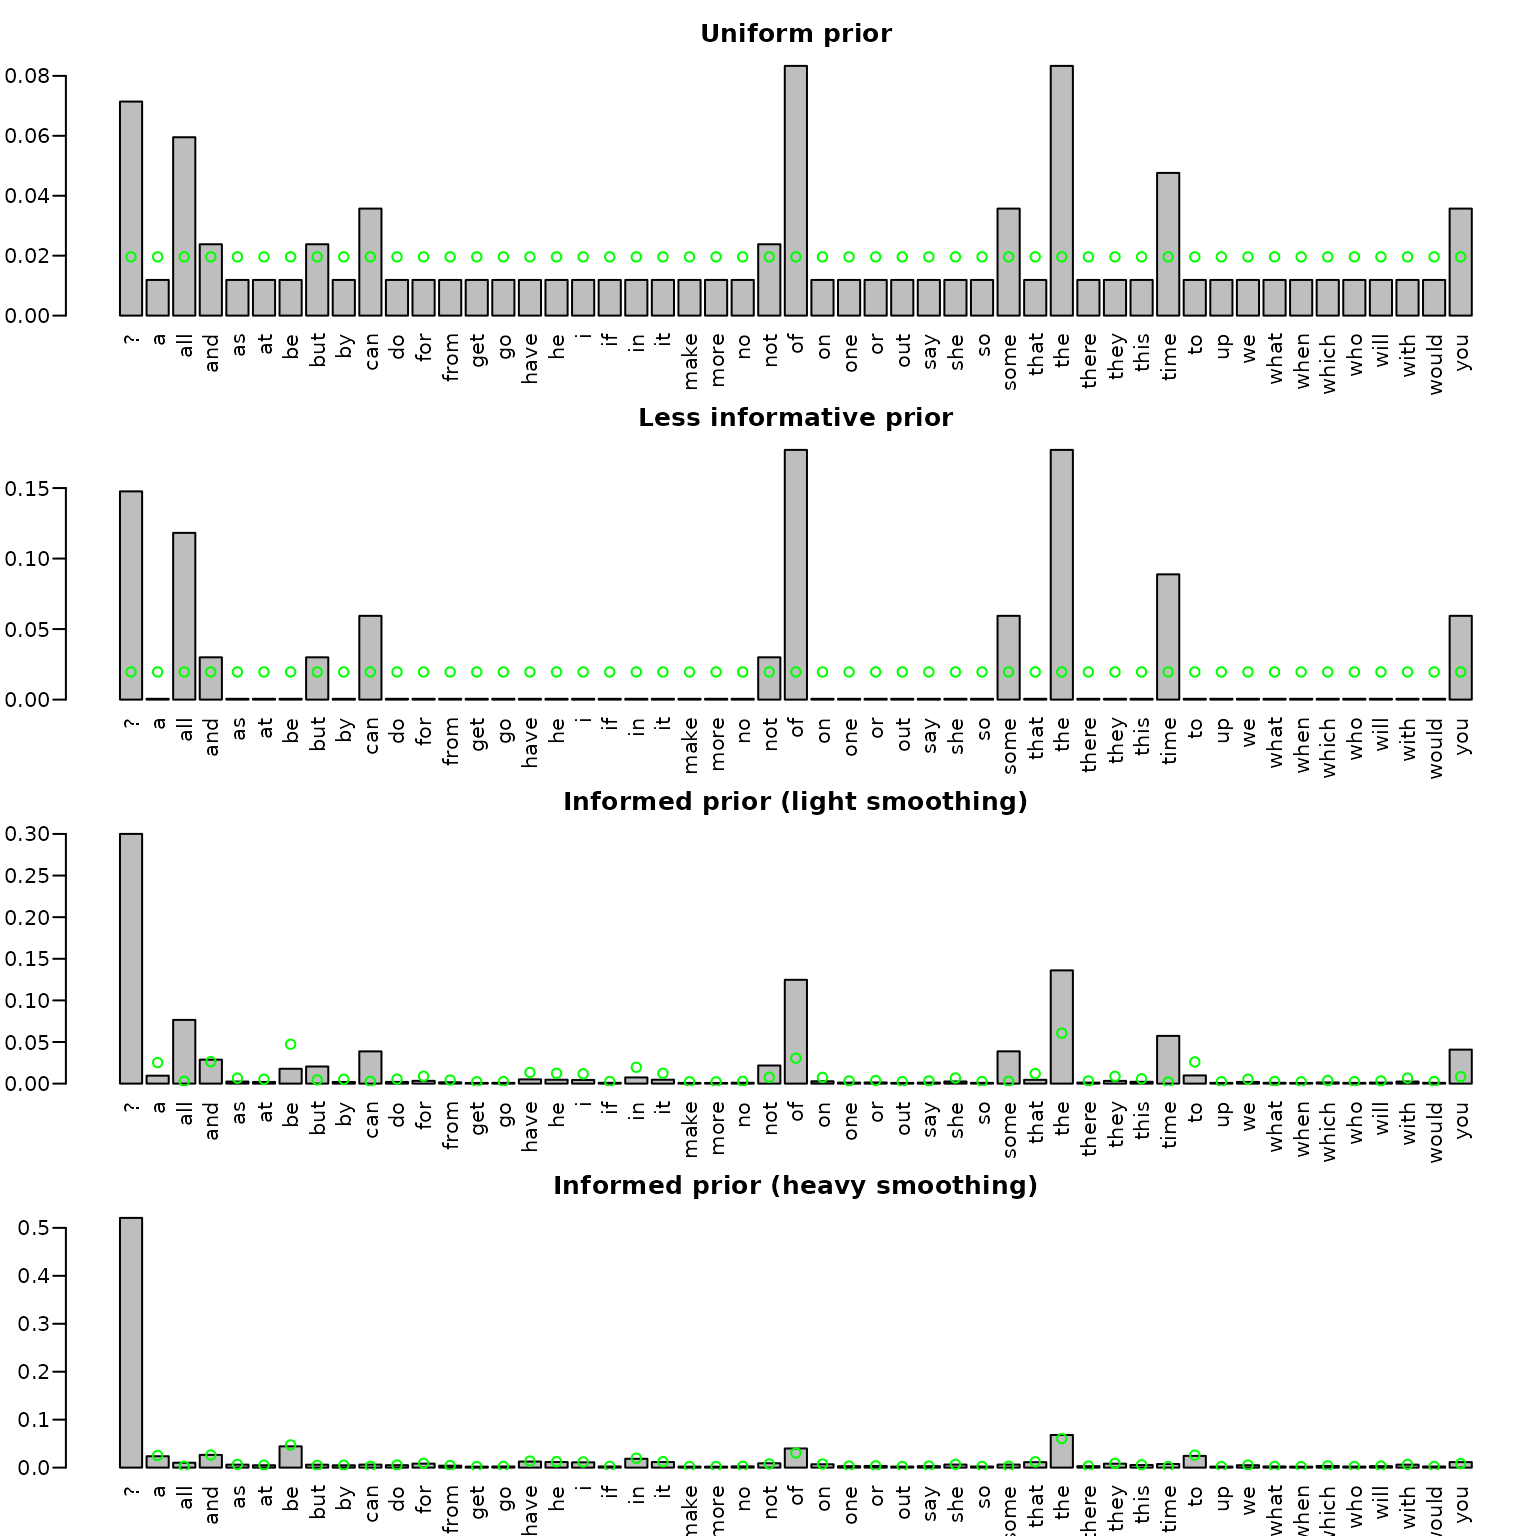
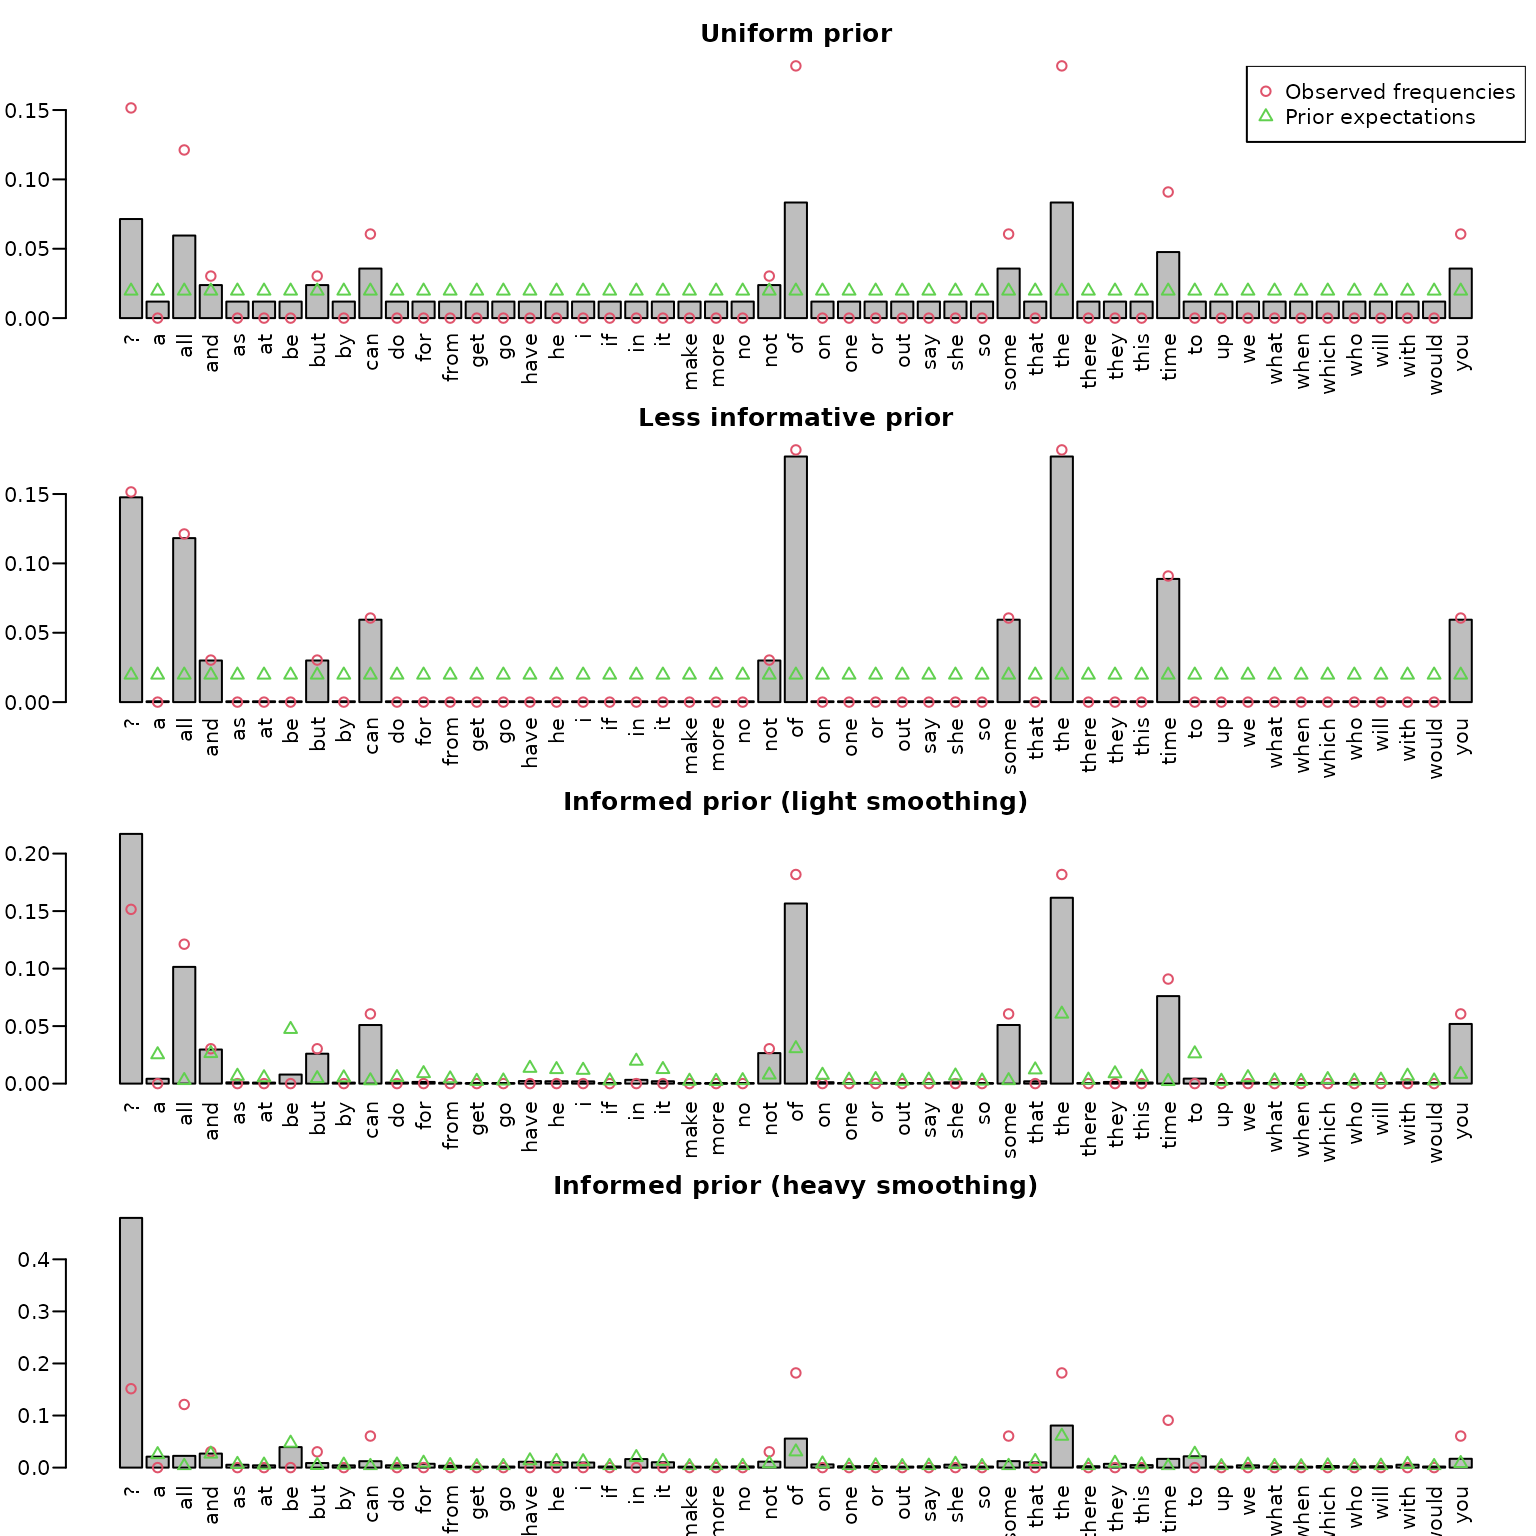
Deploying to gh-pages from @ gregorkastner/BayesianLearningCode@1a45728e91d3b916db8196748d492f4f03759895 🚀

diff --git a/articles/Chapter03.html b/articles/Chapter03.html
@@ -500,7 +500,8 @@ top 50 English words is
 counts. To compute the posterior, we can again add the actual counts and
 the new pseudo-counts.</p>
 <div class="sourceCode" id="cb15"><pre class="downlit sourceCode r">
-<code class="sourceCode R"><span><span class="va">N0</span> <span class="op">&lt;-</span> <span class="va">N</span><span class="op">/</span><span class="fl">5</span></span>
+<code class="sourceCode R"><span><span class="va">N</span> <span class="op">&lt;-</span> <span class="fu"><a href="https://rdrr.io/r/base/length.html" class="external-link">length</a></span><span class="op">(</span><span class="va">dat</span><span class="op">)</span></span>
+<span><span class="va">N0</span> <span class="op">&lt;-</span> <span class="va">N</span><span class="op">/</span><span class="fl">5</span></span>
 <span><span class="va">gamma0</span> <span class="op">&lt;-</span> <span class="va">N0</span> <span class="op">*</span> <span class="va">freq</span> <span class="op">/</span> <span class="fl">10</span><span class="op">^</span><span class="fl">8</span></span>
 <span></span>
 <span><span class="va">post_informed_unnormalized</span> <span class="op">&lt;-</span> <span class="va">counts</span> <span class="op">+</span> <span class="va">gamma0</span></span>
@@ -524,27 +525,35 @@ number of pseudo-counts
 purposes, we also add the prior probabilities of each word via green
 circles.</p>
 <div class="sourceCode" id="cb17"><pre class="downlit sourceCode r">
-<code class="sourceCode R"><span><span class="va">midpts</span> <span class="op">&lt;-</span> <span class="fu"><a href="https://rdrr.io/r/graphics/barplot.html" class="external-link">barplot</a></span><span class="op">(</span><span class="va">post_uniform</span>, las <span class="op">=</span> <span class="fl">2</span><span class="op">)</span></span>
-<span><span class="fu"><a href="https://rdrr.io/r/graphics/points.html" class="external-link">points</a></span><span class="op">(</span><span class="va">midpts</span>, <span class="fu"><a href="https://rdrr.io/r/base/rep.html" class="external-link">rep</a></span><span class="op">(</span><span class="fl">1</span><span class="op">/</span><span class="fl">51</span>, <span class="fu"><a href="https://rdrr.io/r/base/length.html" class="external-link">length</a></span><span class="op">(</span><span class="va">midpts</span><span class="op">)</span><span class="op">)</span>, col <span class="op">=</span> <span class="st">"green"</span><span class="op">)</span></span>
+<code class="sourceCode R"><span><span class="va">midpts</span> <span class="op">&lt;-</span> <span class="fu"><a href="https://rdrr.io/r/graphics/barplot.html" class="external-link">barplot</a></span><span class="op">(</span><span class="va">post_uniform</span>, las <span class="op">=</span> <span class="fl">2</span>,</span>
+<span>                  ylim <span class="op">=</span> <span class="fu"><a href="https://rdrr.io/r/base/c.html" class="external-link">c</a></span><span class="op">(</span><span class="fl">0</span>, <span class="fu"><a href="https://rdrr.io/r/base/Extremes.html" class="external-link">max</a></span><span class="op">(</span><span class="va">counts</span><span class="op">/</span><span class="va">N</span>, <span class="va">post_uniform</span><span class="op">)</span><span class="op">)</span><span class="op">)</span></span>
+<span><span class="fu"><a href="https://rdrr.io/r/graphics/points.html" class="external-link">points</a></span><span class="op">(</span><span class="va">midpts</span>, <span class="va">counts</span><span class="op">/</span><span class="va">N</span>, col <span class="op">=</span> <span class="fl">2</span>, pch <span class="op">=</span> <span class="fl">1</span>, xpd <span class="op">=</span> <span class="cn">TRUE</span><span class="op">)</span></span>
+<span><span class="fu"><a href="https://rdrr.io/r/graphics/points.html" class="external-link">points</a></span><span class="op">(</span><span class="va">midpts</span>, <span class="fu"><a href="https://rdrr.io/r/base/rep.html" class="external-link">rep</a></span><span class="op">(</span><span class="fl">1</span><span class="op">/</span><span class="fl">51</span>, <span class="fu"><a href="https://rdrr.io/r/base/length.html" class="external-link">length</a></span><span class="op">(</span><span class="va">midpts</span><span class="op">)</span><span class="op">)</span>, col <span class="op">=</span> <span class="fl">3</span>, pch <span class="op">=</span> <span class="fl">2</span><span class="op">)</span></span>
 <span><span class="fu"><a href="https://rdrr.io/r/graphics/title.html" class="external-link">title</a></span><span class="op">(</span><span class="st">"Uniform prior"</span><span class="op">)</span></span>
+<span><span class="fu"><a href="https://rdrr.io/r/graphics/legend.html" class="external-link">legend</a></span><span class="op">(</span><span class="st">"topright"</span>, <span class="fu"><a href="https://rdrr.io/r/base/c.html" class="external-link">c</a></span><span class="op">(</span><span class="st">"Observed frequencies"</span>, <span class="st">"Prior expectations"</span><span class="op">)</span>,</span>
+<span>       col <span class="op">=</span> <span class="fl">2</span><span class="op">:</span><span class="fl">3</span>, pch <span class="op">=</span> <span class="fl">1</span><span class="op">:</span><span class="fl">2</span><span class="op">)</span></span>
 <span></span>
-<span><span class="va">midpts</span> <span class="op">&lt;-</span> <span class="fu"><a href="https://rdrr.io/r/graphics/barplot.html" class="external-link">barplot</a></span><span class="op">(</span><span class="va">post_lessinformative</span>, las <span class="op">=</span> <span class="fl">2</span><span class="op">)</span></span>
-<span><span class="fu"><a href="https://rdrr.io/r/graphics/points.html" class="external-link">points</a></span><span class="op">(</span><span class="va">midpts</span>, <span class="fu"><a href="https://rdrr.io/r/base/rep.html" class="external-link">rep</a></span><span class="op">(</span><span class="fl">1</span><span class="op">/</span><span class="fl">51</span>, <span class="fu"><a href="https://rdrr.io/r/base/length.html" class="external-link">length</a></span><span class="op">(</span><span class="va">midpts</span><span class="op">)</span><span class="op">)</span>, col <span class="op">=</span> <span class="st">"green"</span><span class="op">)</span></span>
+<span><span class="va">midpts</span> <span class="op">&lt;-</span> <span class="fu"><a href="https://rdrr.io/r/graphics/barplot.html" class="external-link">barplot</a></span><span class="op">(</span><span class="va">post_lessinformative</span>, las <span class="op">=</span> <span class="fl">2</span>,</span>
+<span>                  ylim <span class="op">=</span> <span class="fu"><a href="https://rdrr.io/r/base/c.html" class="external-link">c</a></span><span class="op">(</span><span class="fl">0</span>, <span class="fu"><a href="https://rdrr.io/r/base/Extremes.html" class="external-link">max</a></span><span class="op">(</span><span class="va">counts</span><span class="op">/</span><span class="va">N</span>, <span class="va">post_lessinformative</span><span class="op">)</span><span class="op">)</span><span class="op">)</span></span>
+<span><span class="fu"><a href="https://rdrr.io/r/graphics/points.html" class="external-link">points</a></span><span class="op">(</span><span class="va">midpts</span>, <span class="va">counts</span><span class="op">/</span><span class="va">N</span>, col <span class="op">=</span> <span class="fl">2</span>, pch <span class="op">=</span> <span class="fl">1</span>, xpd <span class="op">=</span> <span class="cn">TRUE</span><span class="op">)</span></span>
+<span><span class="fu"><a href="https://rdrr.io/r/graphics/points.html" class="external-link">points</a></span><span class="op">(</span><span class="va">midpts</span>, <span class="fu"><a href="https://rdrr.io/r/base/rep.html" class="external-link">rep</a></span><span class="op">(</span><span class="fl">1</span><span class="op">/</span><span class="fl">51</span>, <span class="fu"><a href="https://rdrr.io/r/base/length.html" class="external-link">length</a></span><span class="op">(</span><span class="va">midpts</span><span class="op">)</span><span class="op">)</span>, col <span class="op">=</span> <span class="fl">3</span>, pch <span class="op">=</span> <span class="fl">2</span><span class="op">)</span></span>
 <span><span class="fu"><a href="https://rdrr.io/r/graphics/title.html" class="external-link">title</a></span><span class="op">(</span><span class="st">"Less informative prior"</span><span class="op">)</span></span>
 <span></span>
 <span><span class="va">midpts</span> <span class="op">&lt;-</span> <span class="fu"><a href="https://rdrr.io/r/graphics/barplot.html" class="external-link">barplot</a></span><span class="op">(</span><span class="va">post_informed</span>, las <span class="op">=</span> <span class="fl">2</span><span class="op">)</span></span>
-<span><span class="fu"><a href="https://rdrr.io/r/graphics/points.html" class="external-link">points</a></span><span class="op">(</span><span class="va">midpts</span>, <span class="va">freq</span> <span class="op">/</span> <span class="fl">10</span><span class="op">^</span><span class="fl">8</span>, col <span class="op">=</span> <span class="st">"green"</span><span class="op">)</span></span>
+<span><span class="fu"><a href="https://rdrr.io/r/graphics/points.html" class="external-link">points</a></span><span class="op">(</span><span class="va">midpts</span>, <span class="va">counts</span><span class="op">/</span><span class="va">N</span>, col <span class="op">=</span> <span class="fl">2</span>, pch <span class="op">=</span> <span class="fl">1</span>, xpd <span class="op">=</span> <span class="cn">TRUE</span><span class="op">)</span></span>
+<span><span class="fu"><a href="https://rdrr.io/r/graphics/points.html" class="external-link">points</a></span><span class="op">(</span><span class="va">midpts</span>, <span class="va">freq</span> <span class="op">/</span> <span class="fl">10</span><span class="op">^</span><span class="fl">8</span>, col <span class="op">=</span> <span class="fl">3</span>, pch <span class="op">=</span> <span class="fl">2</span><span class="op">)</span></span>
 <span><span class="fu"><a href="https://rdrr.io/r/graphics/title.html" class="external-link">title</a></span><span class="op">(</span><span class="st">"Informed prior (light smoothing)"</span><span class="op">)</span></span>
 <span></span>
 <span><span class="va">midpts</span> <span class="op">&lt;-</span> <span class="fu"><a href="https://rdrr.io/r/graphics/barplot.html" class="external-link">barplot</a></span><span class="op">(</span><span class="va">post_informed2</span>, las <span class="op">=</span> <span class="fl">2</span><span class="op">)</span></span>
-<span><span class="fu"><a href="https://rdrr.io/r/graphics/points.html" class="external-link">points</a></span><span class="op">(</span><span class="va">midpts</span>, <span class="va">freq</span> <span class="op">/</span><span class="fl">10</span><span class="op">^</span><span class="fl">8</span>, col <span class="op">=</span> <span class="st">"green"</span><span class="op">)</span></span>
+<span><span class="fu"><a href="https://rdrr.io/r/graphics/points.html" class="external-link">points</a></span><span class="op">(</span><span class="va">midpts</span>, <span class="va">counts</span><span class="op">/</span><span class="va">N</span>, col <span class="op">=</span> <span class="fl">2</span>, pch <span class="op">=</span> <span class="fl">1</span>, xpd <span class="op">=</span> <span class="cn">TRUE</span><span class="op">)</span></span>
+<span><span class="fu"><a href="https://rdrr.io/r/graphics/points.html" class="external-link">points</a></span><span class="op">(</span><span class="va">midpts</span>, <span class="va">freq</span> <span class="op">/</span><span class="fl">10</span><span class="op">^</span><span class="fl">8</span>, col <span class="op">=</span> <span class="fl">3</span>, pch <span class="op">=</span> <span class="fl">2</span><span class="op">)</span></span>
 <span><span class="fu"><a href="https://rdrr.io/r/graphics/title.html" class="external-link">title</a></span><span class="op">(</span><span class="st">"Informed prior (heavy smoothing)"</span><span class="op">)</span></span></code></pre></div>
 <p><img src="Chapter03_files/figure-html/unnamed-chunk-19-1.png" width="768"></p>
-<p>In the top panel (based on the continuous uniform prior), we can
-nicely see the effect of the <em>add-one smoothing</em>, whereas the
-middle panel shows almost no smoothing, and unseen words are estimated
-to be extremely unlikely. The two bottom panels show the posterior under
-the informed prior with light and heavy smoothing, respectively.</p>
+<p>In the top panel (based on the uniform prior), we can nicely see the
+<em>add-one smoothing</em> effect, whereas the middle panel shows almost
+no smoothing, and unseen words are estimated to be extremely unlikely.
+The two bottom panels show the posterior under the informed prior with
+light and heavy smoothing, respectively.</p>
 </div>
 </div>
 </div>
